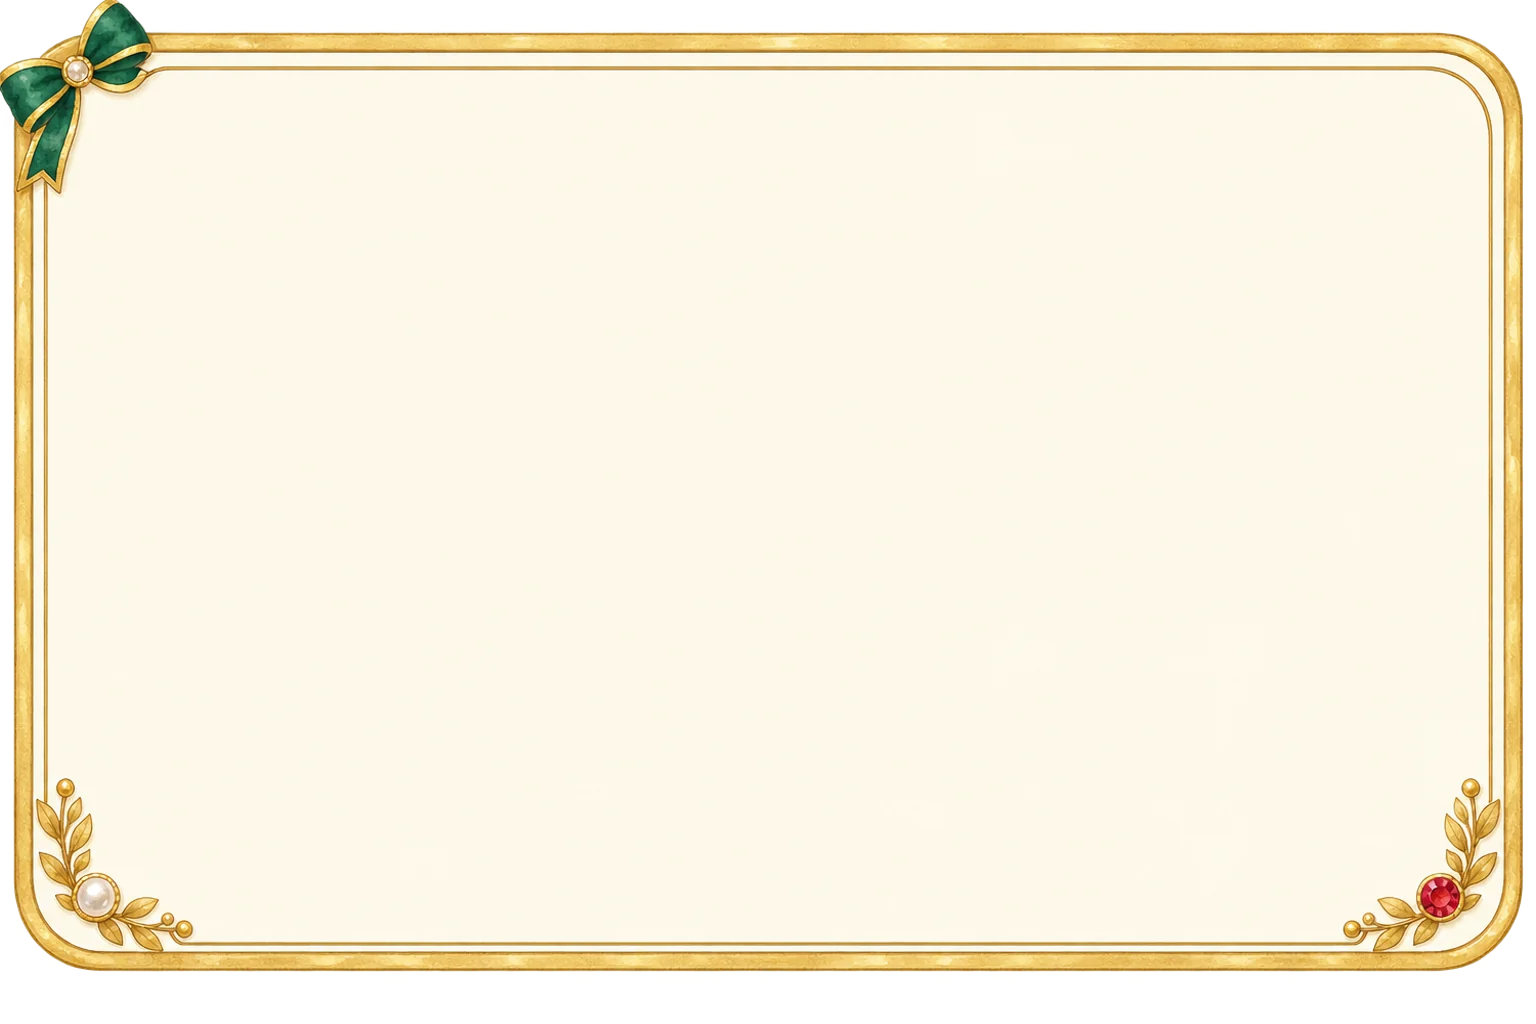
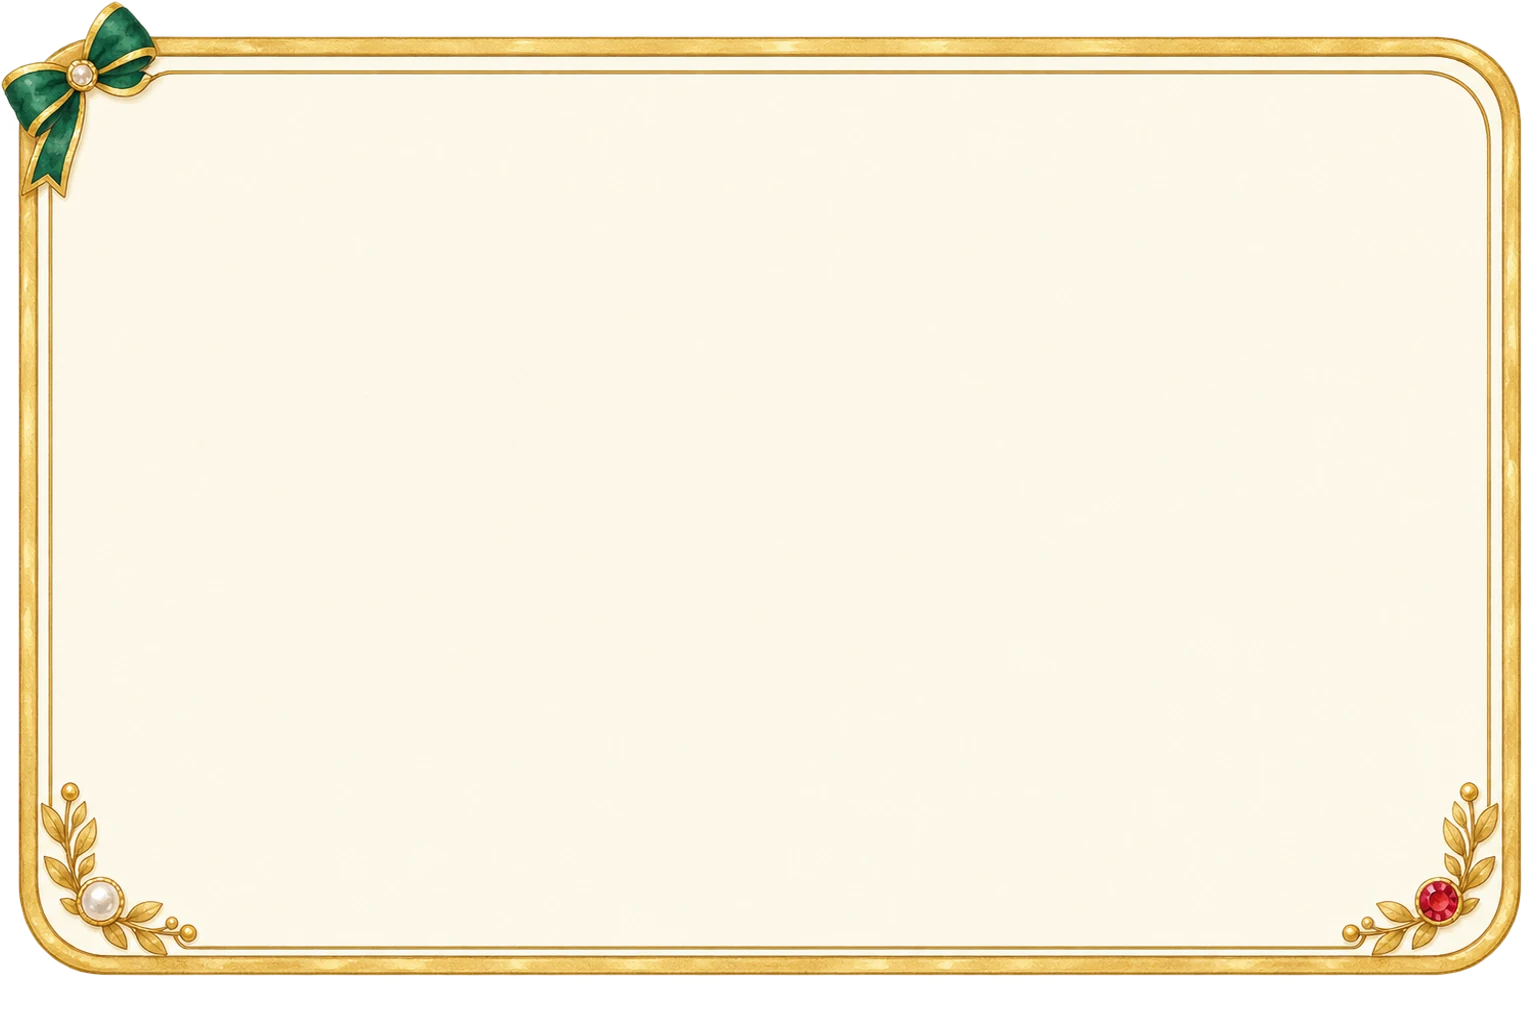
あなたの実績カードの左右のふちを、ほかのカードとそろえる
Claude-Session: https://claude.ai/code/session_01Fz443Srsiif8YanvqsgjC2

Changed region(s): [[0.0, 0.0, 1.0, 0.9688]]

diff --git a/src/lib/home-card-layout.ts b/src/lib/home-card-layout.ts
@@ -24,15 +24,13 @@ type CardGeometry = {
   /** 紙の上端・下端が、絵の高さの何割のところにあるか（public/ の画像から測った値） */
   paperTop: number;
   paperBottom: number;
-  /** 絵の幅が「親の幅 + 21px」よりせまいときの差（px）。ハイライトはスライドに左右 2px の内側余白がある */
-  narrower?: number;
 };
 
 export const HOME_CARD_GEOMETRY: Record<HomeCardId, CardGeometry> = {
   // public/notice-card.webp（2172×724）：紙は 63〜673px
   notice: { ratio: 2172 / 724, paperTop: 63 / 724, paperBottom: 673 / 724 },
   // public/home-highlights-frame.webp（1536×1024）：紙は 33〜970px
-  highlights: { ratio: 1536 / 1024, paperTop: 33 / 1024, paperBottom: 970 / 1024, narrower: 4 },
+  highlights: { ratio: 1536 / 1024, paperTop: 33 / 1024, paperBottom: 970 / 1024 },
   // public/collection-card.webp（2172×724）：紙は 66〜668px
   collection: { ratio: 2172 / 724, paperTop: 66 / 724, paperBottom: 668 / 724 },
 };
@@ -47,6 +45,8 @@ const SKIN_GEOMETRY: Partial<Record<HomeSkinTheme, Partial<Record<HomeCardId, Pi
     notice: { paperTop: 81 / 724, paperBottom: 653 / 724 },
     // public/home-skins/deluxe/collection.webp：紙は 86〜648px
     collection: { paperTop: 86 / 724, paperBottom: 648 / 724 },
+    // public/home-skins/deluxe/highlights.webp：紙は 37〜974px（左上のリボンが切れないよう、少し下げてある）
+    highlights: { paperTop: 37 / 1024, paperBottom: 974 / 1024 },
   },
 };
 
@@ -67,7 +67,7 @@ const n = (v: number) => v.toFixed(5);
 
 /** 絵の幅（CSS の式） */
 function artWidth(g: CardGeometry): string {
-  return `(100% + ${CARD_BLEED.left + CARD_BLEED.right - (g.narrower ?? 0)}px)`;
+  return `(100% + ${CARD_BLEED.left + CARD_BLEED.right}px)`;
 }
 
 /** そのカードの「絵の上の、紙より上の透明なところ」の高さ（CSS の式） */

diff --git a/src/components/home-highlights-carousel.tsx b/src/components/home-highlights-carousel.tsx
@@ -177,7 +177,8 @@ export function HomeHighlightsCarousel({
           style={{ transform: `translateX(-${index * 100}%)` }}
         >
           {slides.map((slide, slideIndex) => (
-            <div key={slideIndex} className="w-full shrink-0 grow-0 basis-full px-0.5">
+            // 左右の余白は入れない（絵の幅をほかのカードとそろえて、紙のふちを同じ位置にする）
+            <div key={slideIndex} className="w-full shrink-0 grow-0 basis-full">
               <FrameCard>
                 <SlideContent slide={slide} />
               </FrameCard>
